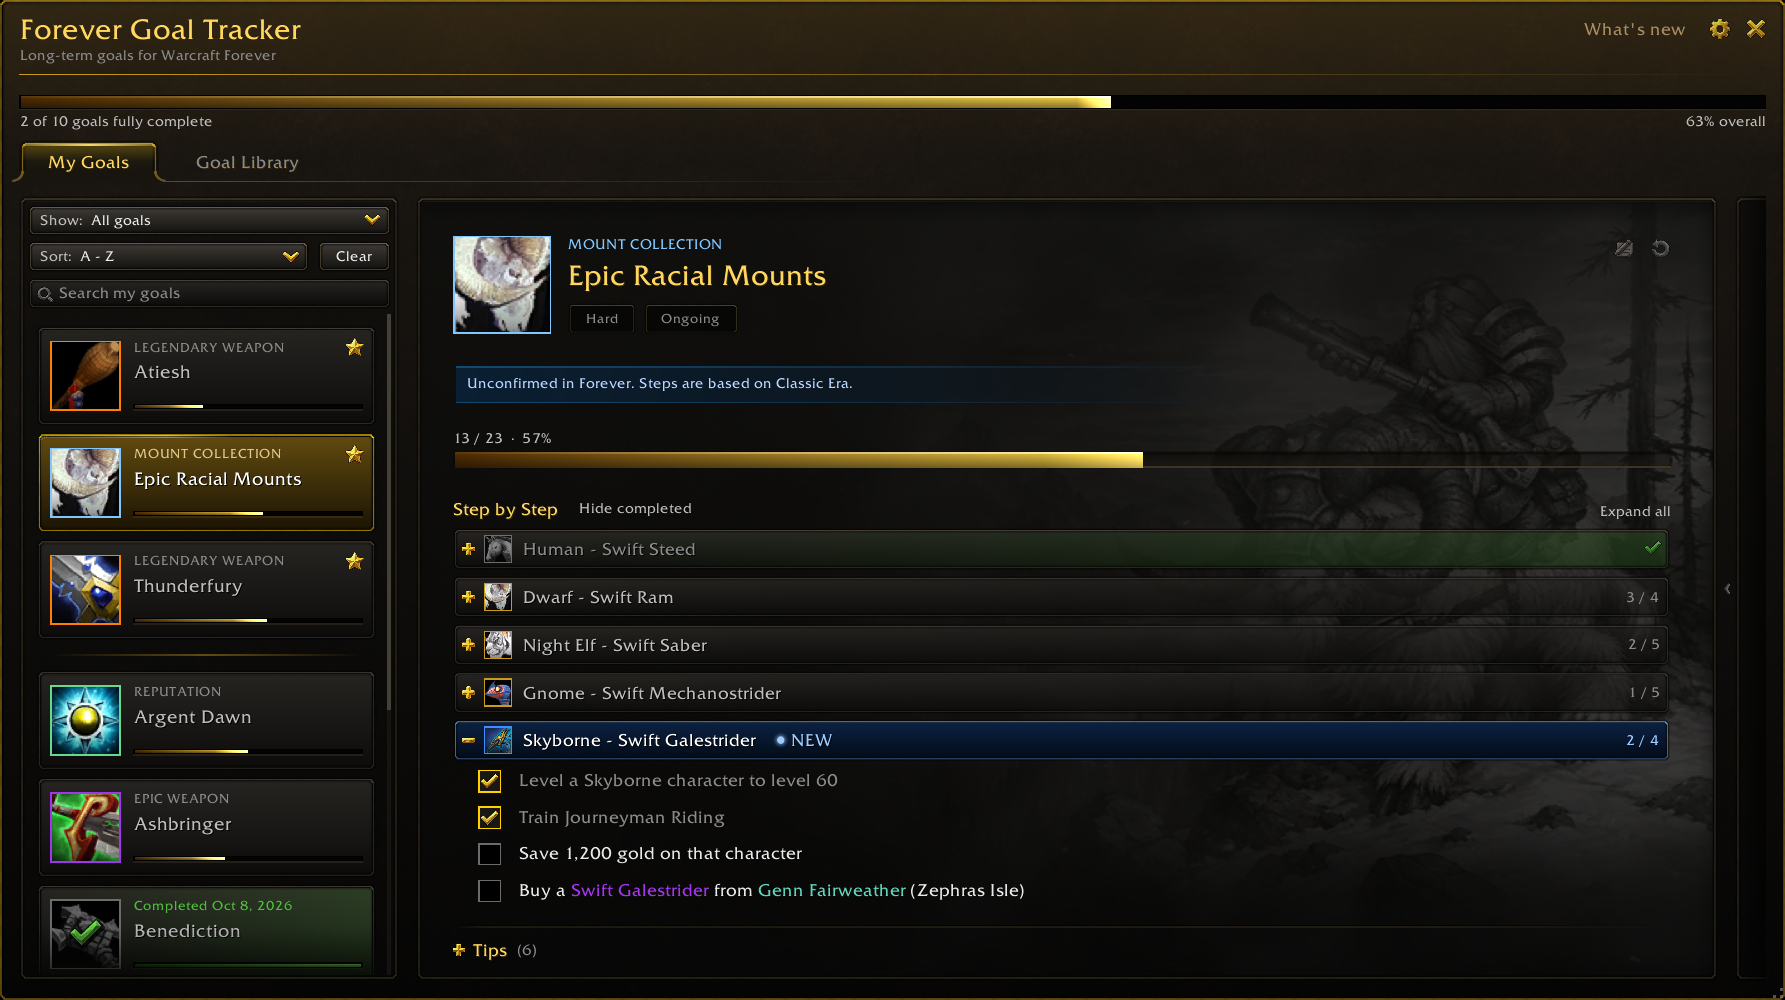
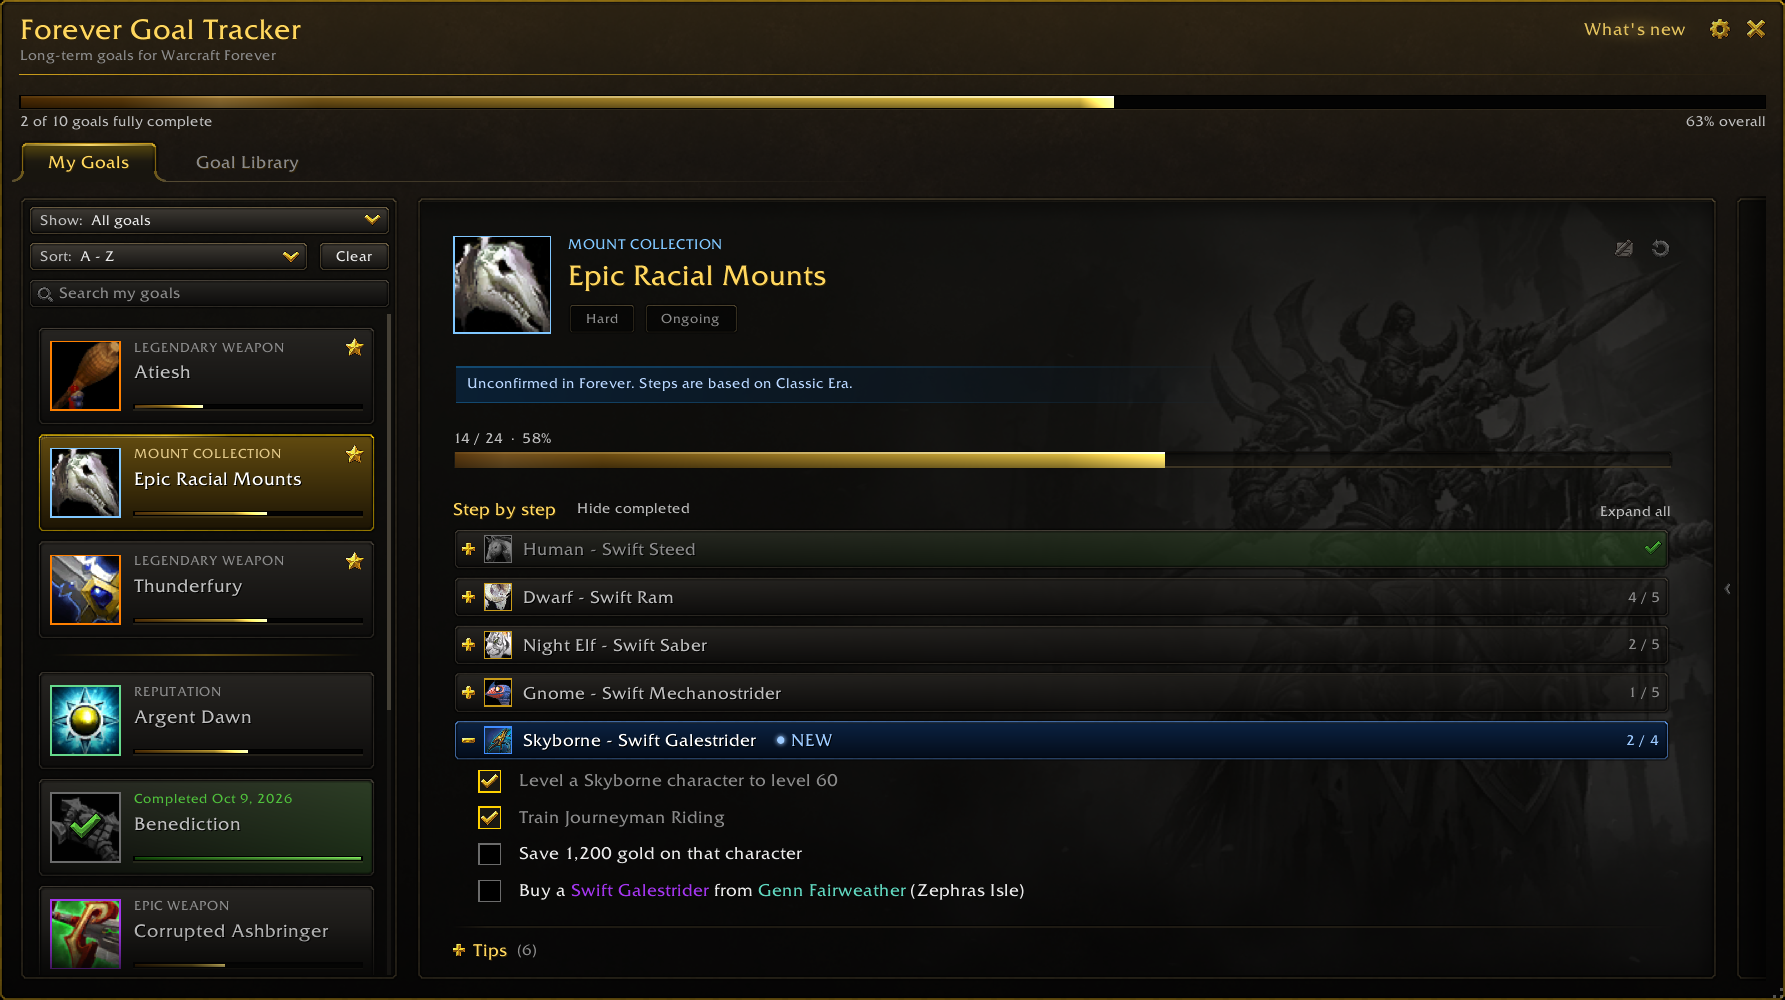
Gallery for 2.13.0: all eleven shots retaken, with the new Wolfsbane shot

diff --git a/CLAUDE.md b/CLAUDE.md
@@ -4,7 +4,7 @@
 
 Read [the full October 8–11 context](reports/Claude-context-2026-10-12.md) and [AGENTS.md](AGENTS.md) before continuing. The handoff explains every major code change, the final design decisions, native test evidence, current risks and the release gate. Its [complete Git inventory](reports/Claude-four-day-git-inventory-2026-10-12.md) indexes all 385 commits and 1,080 changed paths. Older sections below are historical reference; the current handoff and AGENTS.md supersede conflicting proposals, dates, font choices and release states.
 
-Latest published version is **2.13.0** (tagged 2026-10-13 on `6e68088`, approved and live on CurseForge the same day: light on goal images with an Image effects setting, race-based Ambassador banners, whole-set try-on, social counter goals, profession-aware suggestions, the memory-garbage fix; zip 19.2 MB). Ketho/LuaLS and `tools/check.py` passed on the release candidate (`reports/checks/luals-2026-10-13.md`). **Gallery not retaken for 2.13.0:** a Windows text-input overlay held focus when Claude tried; run `/goals shots` (11 shots now, 11 = Wolfsbane), then `python tools/shots.py`, and Karl uploads them. Store description to paste: `reports/CurseForge-description-2.13.0.md`. No newer release is authorized.
+Latest published version is **2.13.0** (tagged 2026-10-13 on `6e68088`, approved and live on CurseForge the same day: light on goal images with an Image effects setting, race-based Ambassador banners, whole-set try-on, social counter goals, profession-aware suggestions, the memory-garbage fix; zip 19.2 MB). Ketho/LuaLS and `tools/check.py` passed on the release candidate (`reports/checks/luals-2026-10-13.md`). Gallery retaken 2026-10-13 after release: all 11 shots (`/goals shots`, 11 = Wolfsbane, new), cropped by `tools/shots.py` (on the PC import Pillow before running it, since `tools/.py` holds the Mac's Pillow) and reviewed; 08 shows Version 2.13.0. Karl uploads them to the CurseForge gallery. Store description to paste: `reports/CurseForge-description-2.13.0.md`. No newer release is authorized.
 
 ### Required release gate and current defaults
 
